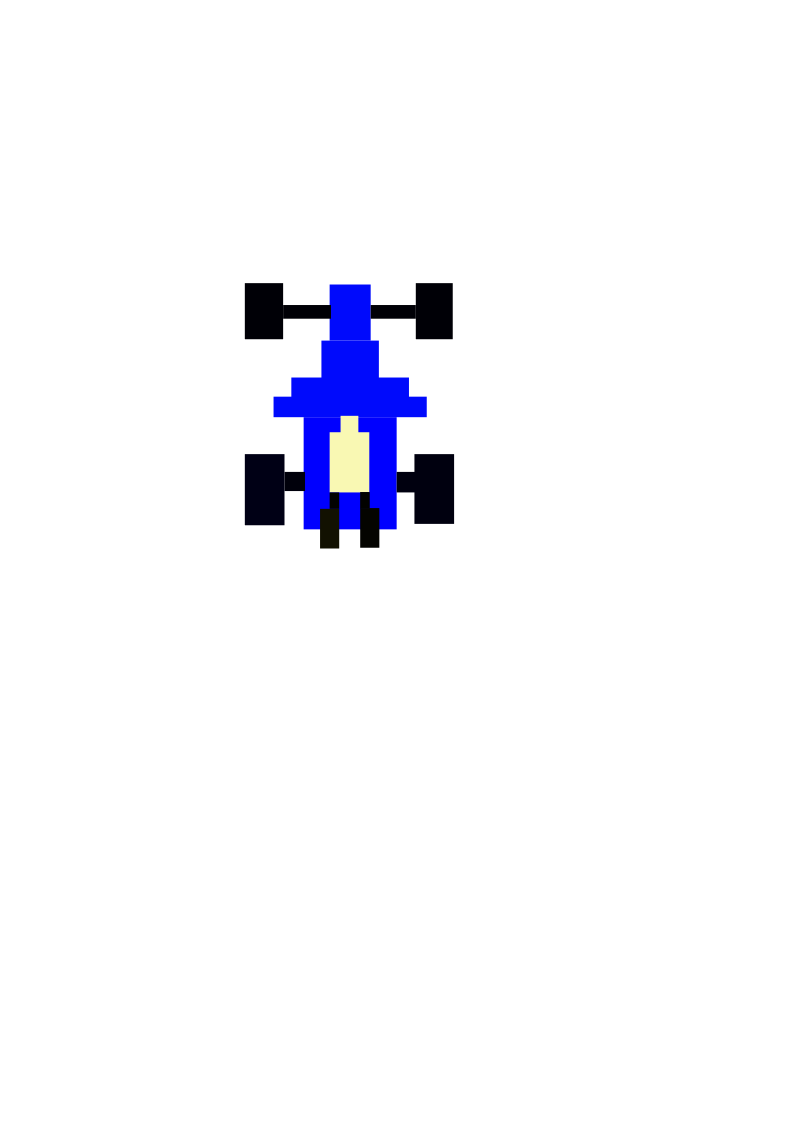
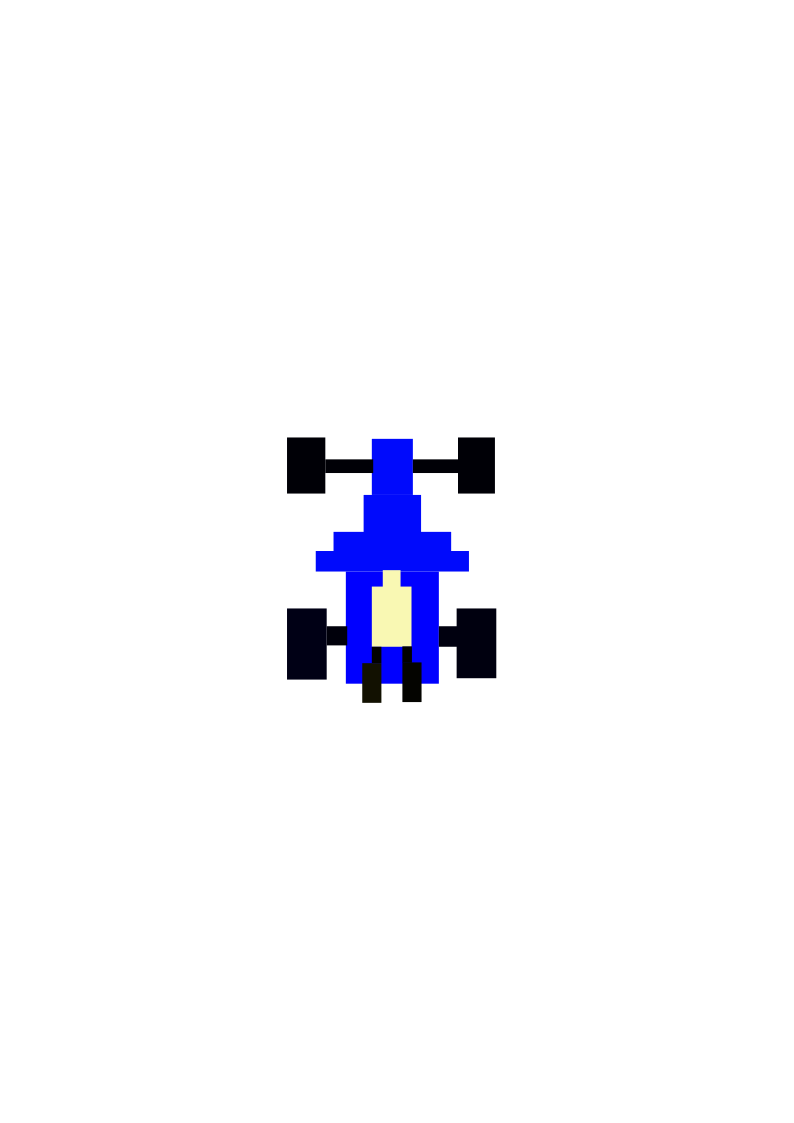
hard screen boundaries + car model bug fix
attempt at setting hard boundaries at the edge of window, remade car model so its centered and properly formed in game

Changed region(s): [[0.3023, 0.2493, 0.6348, 0.6233]]

diff --git a/src/Raceing.java b/src/Raceing.java
@@ -34,7 +34,7 @@ public class Raceing extends JFrame {
 
         //declaring variable values
         XOFFSET = 0;
-        YOFFSET = 40;
+        YOFFSET = -15;
         WINWIDTH = 1000;
         WINHEIGHT = 800;
         pi = 3.14159265358979;
@@ -220,12 +220,18 @@ public class Raceing extends JFrame {
         }
 
         public void setPlayerPosition(double x, double y) {
+            x = Math.max(XOFFSET, Math.min(x, XOFFSET + WINWIDTH - 70));
+            y = Math.max(YOFFSET, Math.min(y, YOFFSET + WINHEIGHT - 100));
+
             player1X = x;
             player1Y = y;
             repaint();
         }
 
         public void setPlayer2Position(double x, double y) {
+            x = Math.max(XOFFSET, Math.min(x, XOFFSET + WINWIDTH - 70));
+            y = Math.max(YOFFSET, Math.min(y, YOFFSET + WINHEIGHT - 100));
+
             player2X = x;
             player2Y = y;
             repaint();
@@ -405,6 +411,9 @@ public class Raceing extends JFrame {
 
             newX += velocity * Math.cos(adjustedAngle);
             newY += velocity * Math.sin(adjustedAngle);
+
+            newX = Math.max(XOFFSET, Math.min(newX, XOFFSET + WINWIDTH - 70));
+            newY = Math.max(YOFFSET, Math.min(newY, YOFFSET + WINHEIGHT - 100));
 
             if (isPlayer2) {
                 panel.setPlayer2Position(newX, newY);
